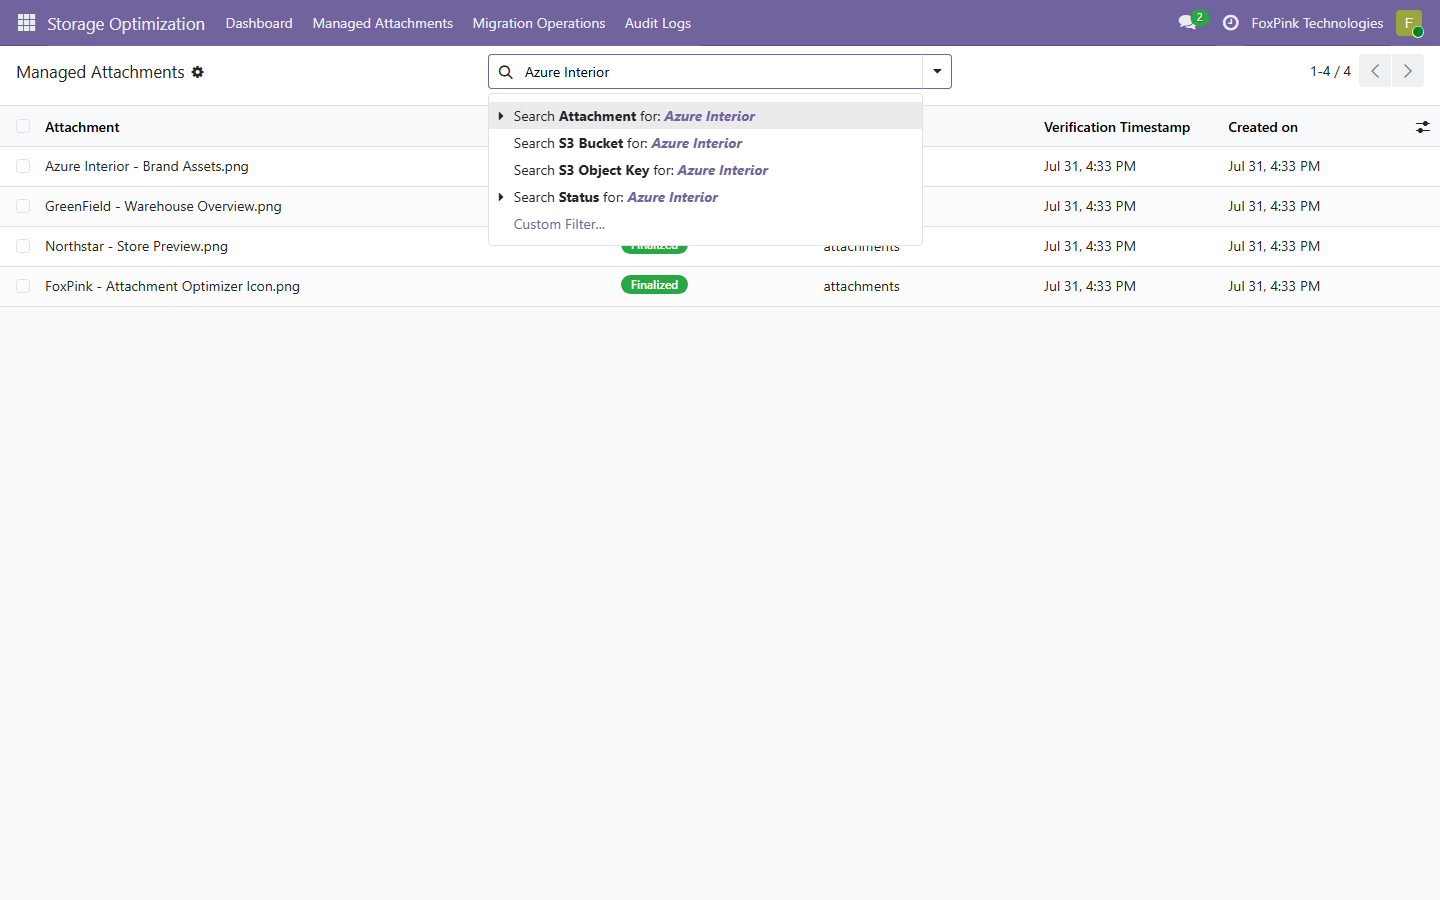
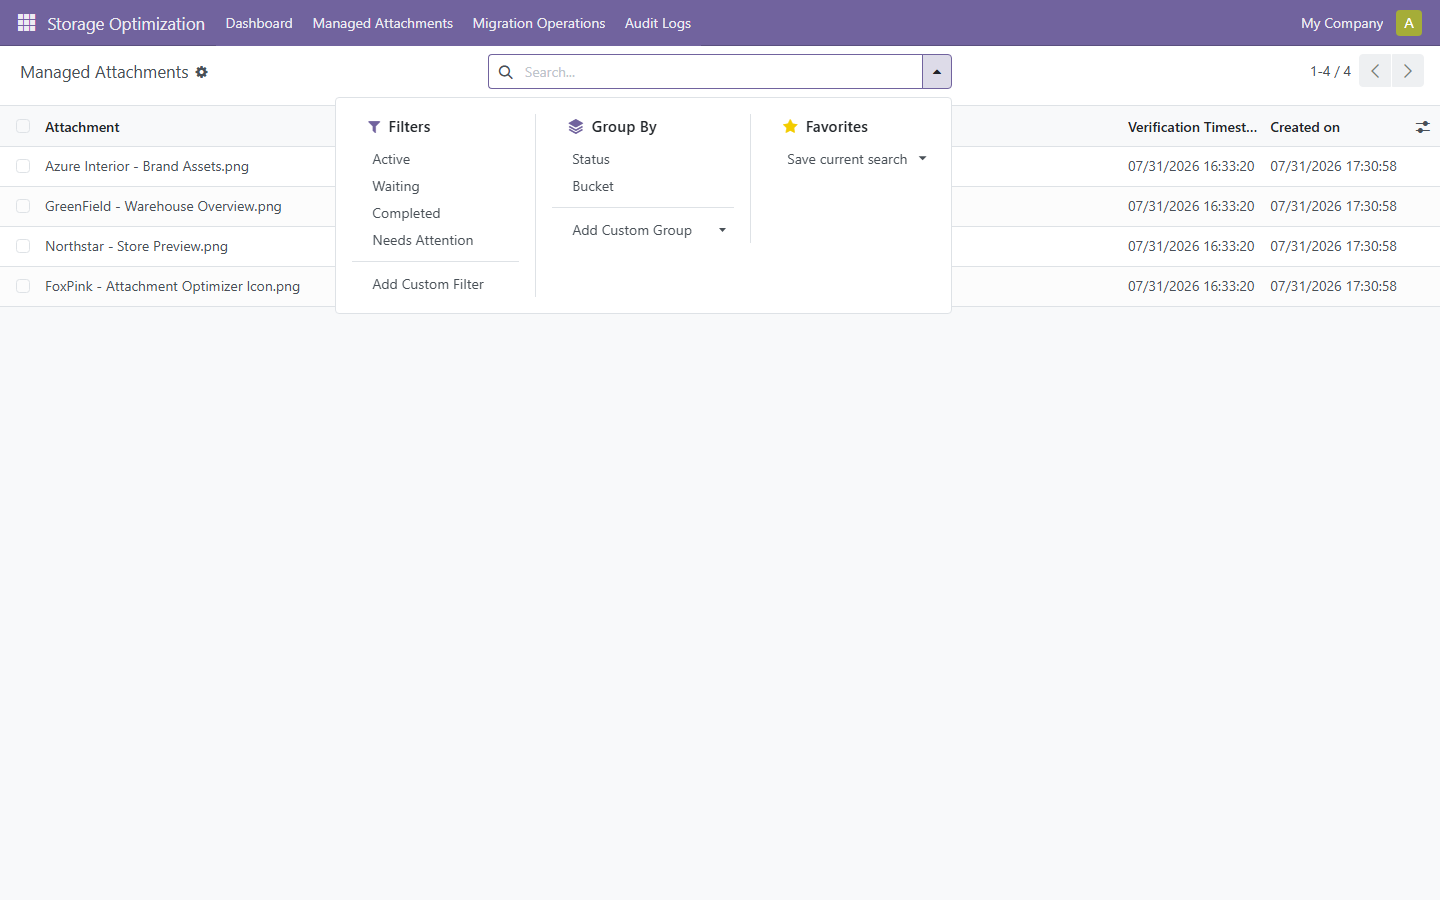
[18.0] Port module and refresh version-specific screenshots

diff --git a/attachment_optimizer/static/description/index.html b/attachment_optimizer/static/description/index.html
@@ -135,7 +135,7 @@
             </div>
         </div>
         <div style="border:1px solid #bae6fd; background:#f0f9ff; border-radius:10px; padding:14px 20px; color:#075985; text-align:center; font-size:13px; line-height:1.6;">
-            <strong>Transparent roadmap:</strong> Pro features are planned and are not included in version 19.0.1.0.1. Every feature presented elsewhere on this page is included in the Free Edition.
+            <strong>Transparent roadmap:</strong> Pro features are planned and are not included in version 18.0.1.0.1. Every feature presented elsewhere on this page is included in the Free Edition.
         </div>
 
         <!-- SCREENSHOTS GALLERY -->
@@ -289,7 +289,7 @@
                 Licensed under LGPL-3 &mdash; free to use, modify and distribute.
             </p>
             <div style="display:inline-block; border:2px solid #4f46e5; color:#4f46e5; font-weight:700; font-size:13px; padding:10px 28px; border-radius:8px; letter-spacing:0.2px;">Support: aduy000@gmail.com</div>
-            <p style="font-size:11px; color:#94a3b8; margin:20px 0 0;">Version 19.0.1.0.1 &middot; Built and maintained by FoxPink</p>
+            <p style="font-size:11px; color:#94a3b8; margin:20px 0 0;">Version 18.0.1.0.1 &middot; Built and maintained by FoxPink</p>
         </div>
 
     </div>

diff --git a/attachment_optimizer/tests/test_security.py b/attachment_optimizer/tests/test_security.py
@@ -1,4 +1,4 @@
-from odoo.tests import TransactionCase
+from odoo.tests import TransactionCase
 from odoo.exceptions import AccessError
 from odoo.tools import mute_logger
 
@@ -14,12 +14,12 @@ class TestSecurity(TransactionCase):
         cls.manager = cls.env['res.users'].create({
             'name': 'Sec Mgr',
             'login': 'security_manager',
-            'group_ids': [(4, cls.env.ref('base.group_user').id), (4, group.id)],
+            'groups_id': [(4, cls.env.ref('base.group_user').id), (4, group.id)],
         })
         cls.non_manager = cls.env['res.users'].create({
             'name': 'Sec Emp',
             'login': 'security_employee',
-            'group_ids': [(4, cls.env.ref('base.group_user').id)],
+            'groups_id': [(4, cls.env.ref('base.group_user').id)],
         })
         cls.attachment = cls.env['ir.attachment'].create({
             'name': 'security_test.txt',
@@ -30,10 +30,10 @@ class TestSecurity(TransactionCase):
     # -- Menu ACL --
 
     def _visible_to(self, menu, user):
-        menu_groups = menu.sudo().group_ids
+        menu_groups = menu.sudo().groups_id
         if not menu_groups:
             return True
-        return bool(menu_groups & user.group_ids)
+        return bool(menu_groups & user.groups_id)
 
     def test_01_non_manager_cannot_see_storage_mapping_menu(self):
         """Menu invisible to non_manager because model ACL restricts access."""
@@ -103,7 +103,7 @@ class TestSecurity(TransactionCase):
         no_access_user = self.env['res.users'].create({
             'name': 'No Read',
             'login': 'no_read_acl',
-            'group_ids': [(6, 0, [])],
+            'groups_id': [(6, 0, [])],
         })
         env = self.env(user=no_access_user)
         binary = env['ir.binary']
@@ -111,13 +111,7 @@ class TestSecurity(TransactionCase):
         stream = binary._get_stream_from(record, 'datas')
         self.assertIsNone(stream)
 
-    def test_10_manager_group_is_exposed_as_odoo_privilege(self):
-        group = self.env.ref(
-            'attachment_optimizer.group_storage_optimization_manager'
-        )
-        privilege = self.env.ref(
-            'attachment_optimizer.privilege_storage_optimization'
-        )
+    def test_10_manager_group_uses_storage_category(self):
+        group = self.env.ref('attachment_optimizer.group_storage_optimization_manager')
 
-        self.assertEqual(group.privilege_id, privilege)
-        self.assertEqual(privilege.category_id.name, 'Storage Optimization')
+        self.assertEqual(group.category_id.name, 'Storage Optimization')

diff --git a/attachment_optimizer/tests/test_dashboard.py b/attachment_optimizer/tests/test_dashboard.py
@@ -17,12 +17,12 @@ class TestDashboard(TransactionCase):
         cls.manager = cls.env['res.users'].create({
             'name': 'Manager',
             'login': 'dashboard_manager',
-            'group_ids': [(4, cls.env.ref('base.group_user').id), (4, group.id)],
+            'groups_id': [(4, cls.env.ref('base.group_user').id), (4, group.id)],
         })
         cls.non_manager = cls.env['res.users'].create({
             'name': 'Employee',
             'login': 'dashboard_employee',
-            'group_ids': [(4, cls.env.ref('base.group_user').id)],
+            'groups_id': [(4, cls.env.ref('base.group_user').id)],
         })
         cls.menu_dashboard = cls.env.ref(
             'attachment_optimizer.attachment_optimizer_dashboard_menu'
@@ -35,10 +35,10 @@ class TestDashboard(TransactionCase):
         )
 
     def _visible_to(self, menu, user):
-        menu_groups = menu.sudo().group_ids
+        menu_groups = menu.sudo().groups_id
         if not menu_groups:
             return True
-        return bool(menu_groups & user.group_ids)
+        return bool(menu_groups & user.groups_id)
 
     def test_01_dashboard_menu_visible_to_manager(self):
         self.assertTrue(self._visible_to(self.menu_dashboard, self.manager))

diff --git a/attachment_optimizer/tests/test_audit_log.py b/attachment_optimizer/tests/test_audit_log.py
@@ -1,4 +1,4 @@
-from odoo.tests import TransactionCase
+from odoo.tests import TransactionCase
 from odoo.exceptions import AccessError
 from odoo.tools import mute_logger
 
@@ -14,12 +14,12 @@ class TestAuditLog(TransactionCase):
         cls.manager = cls.env['res.users'].create({
             'name': 'Audit Mgr',
             'login': 'audit_manager',
-            'group_ids': [(4, cls.env.ref('base.group_user').id), (4, group.id)],
+            'groups_id': [(4, cls.env.ref('base.group_user').id), (4, group.id)],
         })
         cls.non_manager = cls.env['res.users'].create({
             'name': 'Audit Emp',
             'login': 'audit_employee',
-            'group_ids': [(4, cls.env.ref('base.group_user').id)],
+            'groups_id': [(4, cls.env.ref('base.group_user').id)],
         })
         cls.attachment = cls.env['ir.attachment'].create({
             'name': 'audit_test.txt',

diff --git a/attachment_optimizer/models/storage_mapping.py b/attachment_optimizer/models/storage_mapping.py
@@ -20,10 +20,13 @@ class StorageMapping(models.Model):
     _description = 'Attachment Storage Mapping'
     _rec_name = 'attachment_id'
     _order = 'create_date DESC'
-    _unique_attachment = models.Constraint(
-        'UNIQUE(attachment_id)',
-        'Each attachment can have only one storage mapping.',
-    )
+    _sql_constraints = [
+        (
+            'unique_attachment',
+            'UNIQUE(attachment_id)',
+            'Each attachment can have only one storage mapping.',
+        ),
+    ]
 
     company_id = fields.Many2one(
         'res.company', string='Company',

diff --git a/attachment_optimizer/tests/test_read_flow.py b/attachment_optimizer/tests/test_read_flow.py
@@ -1,4 +1,4 @@
-import hashlib
+import hashlib
 
 from odoo.tests import TransactionCase
 
@@ -141,7 +141,7 @@ class TestReadFlow(TransactionCase):
         no_access_user = self.env['res.users'].create({
             'name': 'No Access',
             'login': 'no_access_acl',
-            'group_ids': [(6, 0, [])],
+            'groups_id': [(6, 0, [])],
         })
         env = self.env(user=no_access_user)
         binary = env['ir.binary']

diff --git a/attachment_optimizer/tests/test_read_flow_edge_cases.py b/attachment_optimizer/tests/test_read_flow_edge_cases.py
@@ -417,7 +417,7 @@ class TestReadFlowEdgeCases(TransactionCase):
         vals = {
             'name': login,
             'login': '%s@test.com' % login,
-            'group_ids': groups,
+            'groups_id': groups,
         }
         if company:
             vals['company_id'] = company.id

diff --git a/attachment_optimizer/__init__.py b/attachment_optimizer/__init__.py
@@ -8,7 +8,7 @@ def _post_init_hook(env):
         base_user = env.ref('base.group_user')
         group.implied_ids = [(4, base_user.id)]
         admin = env.ref('base.user_admin')
-        group.user_ids = [(4, admin.id)]
+        group.users = [(4, admin.id)]
 
 
 def _uninstall_hook(env):

diff --git a/attachment_optimizer/__manifest__.py b/attachment_optimizer/__manifest__.py
@@ -1,6 +1,6 @@
 {
     "name": "Attachment Optimizer",
-    "version": "19.0.1.0.1",
+    "version": "18.0.1.0.1",
     "category": "Storage",
     "summary": "Safely replicate and serve Odoo attachments from S3-compatible storage.",
     "description": """

diff --git a/attachment_optimizer/tests/test_storage_mapping.py b/attachment_optimizer/tests/test_storage_mapping.py
@@ -1,4 +1,4 @@
-from odoo.tests import TransactionCase
+from odoo.tests import TransactionCase
 from odoo.exceptions import ValidationError
 
 

diff --git a/attachment_optimizer/tests/test_uninstall.py b/attachment_optimizer/tests/test_uninstall.py
@@ -1,4 +1,4 @@
-from odoo.tests import TransactionCase
+from odoo.tests import TransactionCase
 
 from .. import _uninstall_hook
 

diff --git a/attachment_optimizer/tests/test_s3_bridge.py b/attachment_optimizer/tests/test_s3_bridge.py
@@ -1,4 +1,4 @@
-import hashlib
+import hashlib
 
 from odoo.tests import TransactionCase
 from odoo.exceptions import UserError
